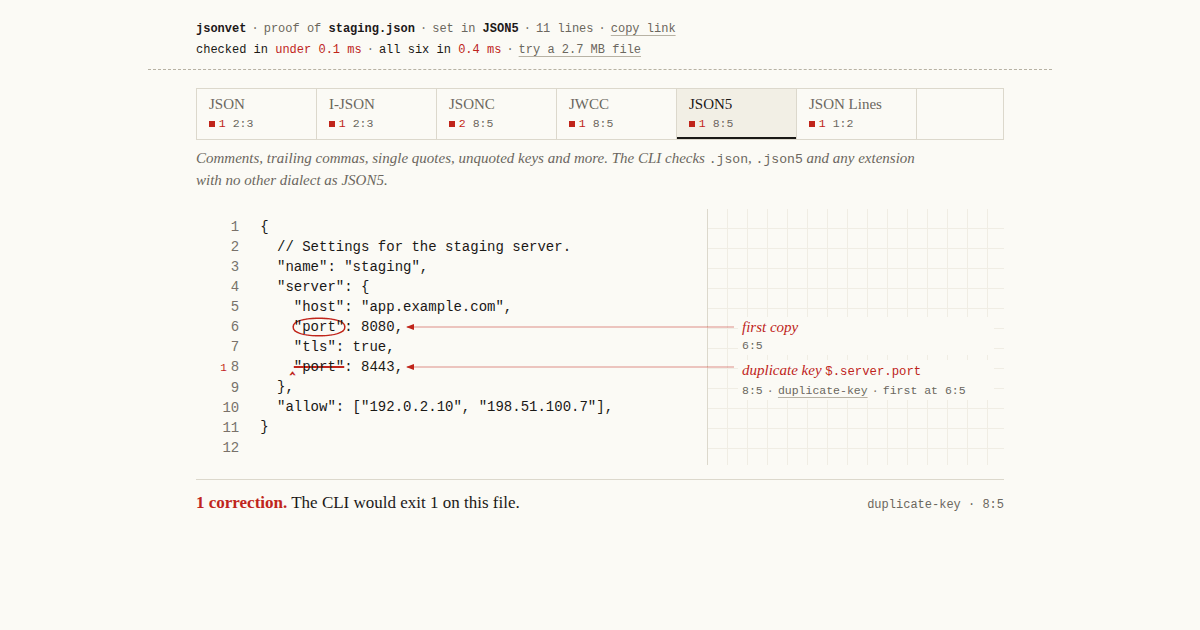
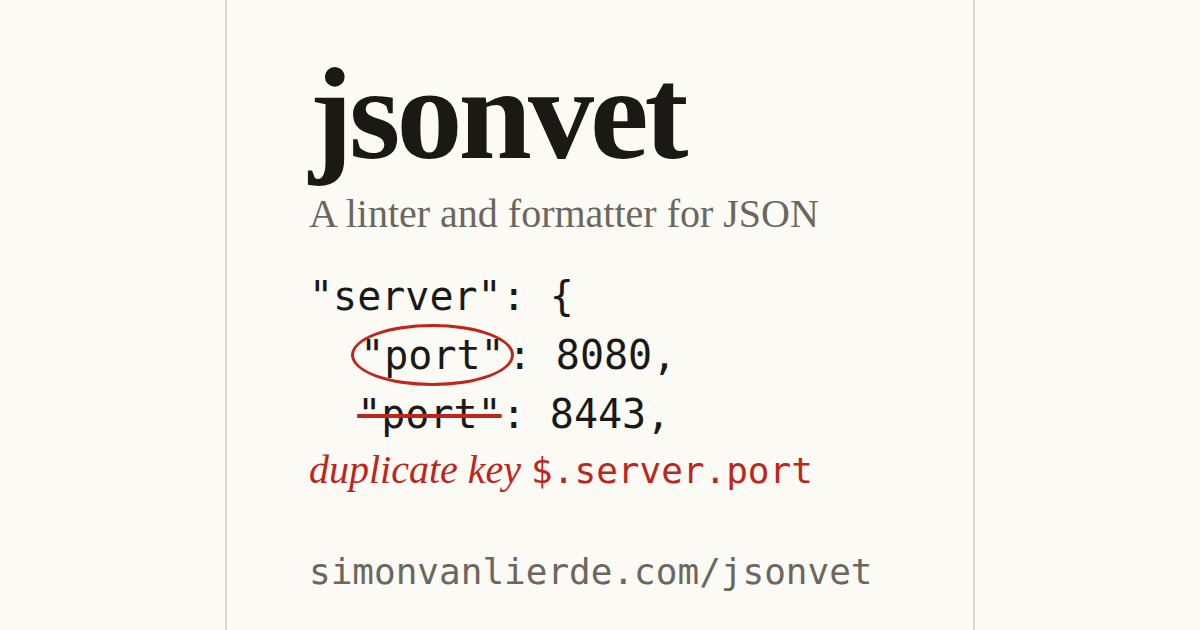
feat(playground): redesign the social card as a poster (#244)
* feat(playground): redesign the social card as a poster

The card was a miniature of the playground screen: at 500 px the code and notes were about
6 px, and a centred square crop kept a nameless code fragment.

- show the name, one duplicate key struck and circled, and the address, all at 36 px or more
  inside the centred 630 px
- render playground/og.png from docs/og-card.html and document the command in docs/design.md
- reword og:image:alt to say what the card shows and what jsonvet does

* feat(playground): say what jsonvet is on the social card

X shows only the image of a link preview and LinkedIn hides the
description, so the card itself now says "Checks JSON in your browser"
under the name.

* fix(playground): describe the tool, not the page, on the social card

The card is shared for the whole project, CLI and hook included, so its
line now reads "A linter and formatter for JSON", as the README opens.

* fix(playground): match the social card's alt text to its new line

* fix(playground): escape the quotes in the social card's alt text

---------

diff --git a/docs/og-card.html b/docs/og-card.html
@@ -1,0 +1,41 @@
+<!doctype html>
+<html lang="en">
+<head>
+<meta charset="utf-8">
+<title>jsonvet social card</title>
+<!-- Source of playground/og.png. Render: see docs/design.md, "Social card". -->
+<style>
+  :root {
+    --paper: #fbfaf5; --ink: #1a1916; --faint: #6b675e; --pen: #c0251b;
+    --serif: Charter, "Bitstream Charter", "Sitka Text", Cambria, "Iowan Old Style", Georgia, "Liberation Serif", serif;
+    --mono: ui-monospace, "Cascadia Code", "Source Code Pro", Menlo, Consolas, "DejaVu Sans Mono", monospace;
+  }
+  * { box-sizing: border-box; margin: 0; }
+  html, body { width: 1200px; height: 630px; background: var(--paper); color: var(--ink); overflow: hidden; }
+  /* Everything that carries meaning sits in the centred 630 px column. */
+  main { position: absolute; left: 285px; top: 0; width: 630px; height: 630px; padding: 48px 24px 0; }
+  h1 { font: 700 132px/1 var(--serif); letter-spacing: -0.03em; }
+  .job { margin-top: 10px; font: 400 40px/1.2 var(--serif); color: var(--faint); }
+  pre { margin-top: 30px; font: 400 40px/56px var(--mono); }
+  .ring { display: inline-block; padding: 0 6px; margin: 0 -6px; border: 3px solid var(--pen); border-radius: 50%; }
+  .cut { text-decoration: line-through; text-decoration-thickness: 4px; text-decoration-color: var(--pen); }
+  .note { font: italic 400 40px/1 var(--serif); color: var(--pen); margin-top: 8px; }
+  .note code { font: 400 36px var(--mono); font-style: normal; }
+  .url { position: absolute; left: 24px; bottom: 40px; font: 400 36px/1 var(--mono); color: var(--faint); }
+  /* Rules either side, a proof's galley margin, outside the safe column only. */
+  body::before, body::after { content: ""; position: absolute; top: 0; bottom: 0; width: 2px; background: #dcd8cc; }
+  body::before { left: 225px; } body::after { right: 225px; }
+</style>
+</head>
+<body>
+<main>
+  <h1>jsonvet</h1>
+  <p class="job">A linter and formatter for JSON</p>
+  <pre>"server": {
+  <span class="ring">"port"</span>: 8080,
+  <span class="cut">"port"</span>: 8443,</pre>
+  <p class="note">duplicate key <code>$.server.port</code></p>
+  <p class="url">simonvanlierde.com/jsonvet</p>
+</main>
+</body>
+</html>

diff --git a/playground/index.html b/playground/index.html
@@ -15,7 +15,7 @@
 <meta property="og:image" content="https://simonvanlierde.com/jsonvet/og.png">
 <meta property="og:image:width" content="1200">
 <meta property="og:image:height" content="630">
-<meta property="og:image:alt" content="A JSON5 config set as a printer's proof by the jsonvet playground: the repeated port key is struck through in red, its first copy circled, and a note in the margin says duplicate key $.server.port. Above it, the six dialects each give their verdict.">
+<meta property="og:image:alt" content="The jsonvet name and the line &quot;A linter and formatter for JSON&quot; above a JSON snippet where the key &quot;port&quot; appears twice: the second copy is struck through in red and a note reads duplicate key $.server.port. jsonvet checks JSON, JSONC and JSON5, on the command line or in the browser.">
 <meta name="twitter:card" content="summary_large_image">
 <meta name="theme-color" content="#fbfaf5" media="(prefers-color-scheme: light)">
 <meta name="theme-color" content="#1b1915" media="(prefers-color-scheme: dark)">

diff --git a/docs/design.md b/docs/design.md
@@ -320,6 +320,20 @@ a build provenance attestation ([SECURITY.md](../SECURITY.md#verifying-a-release
 are not built with `cargo auditable`, which maturin cannot run without a cargo wrapper in every
 build container, so the SBOM lists the dependencies instead.
 
+## Social card
+
+`playground/og.png` (1200x630) is rendered from `docs/og-card.html`, not drawn by hand. Edit the
+HTML and run, from the repository root, with Playwright's Chromium:
+
+```sh
+playwright screenshot --viewport-size=1200,630 file://$PWD/docs/og-card.html playground/og.png
+```
+
+Link previews show it at 300-500 px and some crop to the centred 630 px square, so the name, the
+snippet and the address sit in that square at 36 px or larger. The snippet is the duplicate-key
+example from the playground's sample text. The serif falls back to Liberation Serif where Charter
+is missing.
+
 ## Dependencies and pins
 
 Every version falls in one of five groups, which `.github/renovate.json5` encodes.

diff --git a/playground/PRODUCT.md b/playground/PRODUCT.md
@@ -106,7 +106,7 @@ the page: a share link keeps it in the URL fragment, which browsers do not send 
 
 - The sample text in `index.html`: a config with a comment, a trailing comma and a `port` key
   repeated inside `server`, so it fails as JSON, and each dialect gives a different verdict.
-- The social card `playground/og.png`, a screenshot of the page itself.
+- The social card `playground/og.png`: the name, one duplicate key struck and circled, and the address, rendered from `docs/og-card.html`.
 - The speed figures in docs/design.md#speed, linked from the colophon.
 - No testimonials, user counts or quotes exist; none may be invented.
 
